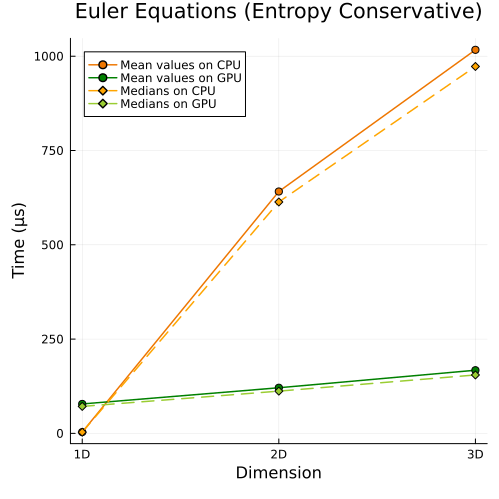
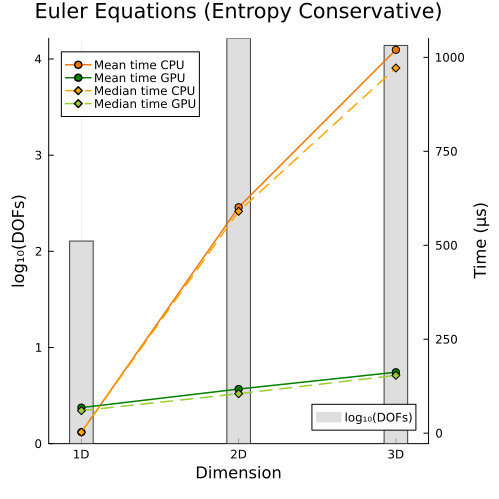
Deploying to gh-pages from  @ 067ace5c3f382915d3ca689856f6c078361e3b23 🚀

diff --git a/benchmark/index.html b/benchmark/index.html
@@ -1,1 +1,1 @@
-<!doctype html> <html lang=en > <meta charset=UTF-8 > <meta name=viewport  content="width=device-width, initial-scale=1"> <link rel=stylesheet  href="/css/franklin.css"> <link rel=stylesheet  href="https://fonts.googleapis.com/css?family=Source+Sans+Pro:400,700,400italic|Source+Code+Pro:400,700" type="text/css"> <link rel=stylesheet  href="/css/font-awesome.min.css"> <link rel=stylesheet  href="/css/celeste.min.css"> <link rel=icon  type="image/png" sizes=192x192  href="/assets/favicon.png"> <link rel="shortcut icon" href="/assets/favicon.ico"> <link rel=apple-touch-icon-precomposed  sizes=152x152  href="/assets/apple-touch-icon.png"> <title>Comparison of <code>rhs&#33;</code> Performance: CPU vs. GPU</title> <header> <nav class=nav-main > <ul> <a class=hvr-underline-reveal  href="/" style="margin-top: 15px; margin-right: 15px"> <img src="/assets/favicon.png" alt=Logo  style="height: 45px; width: 45px"> </a> <li class=hvr-underline-reveal ><a href="/">Home</a> <li class=hvr-underline-reveal ><a href="/doc/">Doc</a> <li class=hvr-underline-reveal ><a href="/tutorial/">Tutorial</a> <li class=hvr-underline-reveal ><a href="/blog/">Blog</a> </ul> </nav> </header> <div class=franklin-content ><h1 id=comparison_of_rhs_performance_cpu_vs_gpu ><a href="#comparison_of_rhs_performance_cpu_vs_gpu" class=header-anchor >Comparison of <code>rhs&#33;</code> Performance: CPU vs. GPU</a></h1> <blockquote> <p>This documentation serves as a supplementary material for JuliaCon 2025. <br /></p> </blockquote> <p>See the benchmarking file at <a href="https://github.com/trixi-gpu/TrixiCUDA.jl/blob/v0.1.0-rc.2/benchmark/benchmark.ipynb">benchmark.ipynb</a>, and all results are compared between <a href="https://github.com/trixi-gpu/TrixiCUDA.jl/tree/v0.1.0-rc.2">TrixiCUDA.jl v0.1.0-rc.2</a> and <a href="https://github.com/trixi-framework/Trixi.jl/tree/v0.11.17">Trixi.jl v0.11.17</a>.</p> <p>We provide the link to each example in Trixi.jl as it is a more mature and stable package compared to TrixiCUDA.jl. Note that performance varies with different inputs; these benchmark results are provided for reference only.</p> <h2 id=linear_advection_equation ><a href="#linear_advection_equation" class=header-anchor >Linear Advection Equation</a></h2> <p>Left: Basic linear advection equation &#40;<a href="https://github.com/trixi-framework/Trixi.jl/blob/v0.11.17/examples/tree_1d_dgsem/elixir_advection_basic.jl">1D</a>, <a href="https://github.com/trixi-framework/Trixi.jl/blob/v0.11.17/examples/tree_2d_dgsem/elixir_advection_basic.jl">2D</a>, <a href="https://github.com/trixi-framework/Trixi.jl/blob/v0.11.17/examples/tree_3d_dgsem/elixir_advection_basic.jl">3D</a>&#41; <br />Right: Linear advection equation with mortar method &#40;<a href="https://github.com/trixi-framework/Trixi.jl/blob/v0.11.17/examples/tree_2d_dgsem/elixir_advection_mortar.jl">2D</a>, <a href="https://github.com/trixi-framework/Trixi.jl/blob/v0.11.17/examples/tree_3d_dgsem/elixir_advection_mortar.jl">3D</a>&#41;</p> <table style="background: transparent; border: none;"> <tr> <td style="background: transparent; border: none;"> <img src="/assets/benchmark/bench1.png" style="width: 300px;"> <td style="background: transparent; border: none;"> <img src="/assets/benchmark/bench2.png" style="width: 300px;"> </table> <h2 id=compressible_euler_equations ><a href="#compressible_euler_equations" class=header-anchor >Compressible Euler Equations</a></h2> <p>Left: Compressible Euler equations with entropy-conservative flux &#40;<a href="https://github.com/trixi-framework/Trixi.jl/blob/v0.11.17/examples/tree_1d_dgsem/elixir_euler_ec.jl">1D</a>, <a href="https://github.com/trixi-framework/Trixi.jl/blob/v0.11.17/examples/tree_2d_dgsem/elixir_euler_ec.jl">2D</a>, <a href="https://github.com/trixi-framework/Trixi.jl/blob/v0.11.17/examples/tree_3d_dgsem/elixir_euler_ec.jl">3D</a>&#41; Right: Compressible Euler equations with shock capturing &#40;<a href="https://github.com/trixi-framework/Trixi.jl/blob/v0.11.17/examples/tree_1d_dgsem/elixir_euler_shockcapturing.jl">1D</a>, <a href="https://github.com/trixi-framework/Trixi.jl/blob/v0.11.17/examples/tree_2d_dgsem/elixir_euler_shockcapturing.jl">2D</a>, <a href="https://github.com/trixi-framework/Trixi.jl/blob/v0.11.17/examples/tree_3d_dgsem/elixir_euler_shockcapturing.jl">3D</a>&#41;</p> <table style="background: transparent; border: none;"> <tr> <td style="background: transparent; border: none;"> <img src="/assets/benchmark/bench3.png" style="width: 300px;"> <td style="background: transparent; border: none;"> <img src="/assets/benchmark/bench4.png" style="width: 300px;"> </table> <h2 id=hyperbolic_diffusion_equations ><a href="#hyperbolic_diffusion_equations" class=header-anchor >Hyperbolic Diffusion Equations</a></h2> <p>Hyperbolic diffusion equations with non-periodic boundary conditions &#40;<a href="https://github.com/trixi-framework/Trixi.jl/blob/v0.11.17/examples/tree_1d_dgsem/elixir_hypdiff_nonperiodic.jl">1D</a>, <a href="https://github.com/trixi-framework/Trixi.jl/blob/v0.11.17/examples/tree_2d_dgsem/elixir_hypdiff_nonperiodic.jl">2D</a>, <a href="https://github.com/trixi-framework/Trixi.jl/blob/v0.11.17/examples/tree_3d_dgsem/elixir_hypdiff_nonperiodic.jl">3D</a>&#41;</p> <div align=center > <img src="/assets/benchmark/bench8.png" style="width: 300px;"> </div> <h2 id=ideal_glm-mhd_equations ><a href="#ideal_glm-mhd_equations" class=header-anchor >Ideal GLM-MHD Equations</a></h2> <p>Upper: Ideal GLM-MHD equations with entropy-conservative flux &#40;<a href="https://github.com/trixi-framework/Trixi.jl/blob/v0.11.17/examples/tree_1d_dgsem/elixir_mhd_ec.jl">1D</a>, <a href="https://github.com/trixi-framework/Trixi.jl/blob/v0.11.17/examples/tree_2d_dgsem/elixir_mhd_ec.jl">2D</a>, <a href="https://github.com/trixi-framework/Trixi.jl/blob/v0.11.17/examples/tree_3d_dgsem/elixir_mhd_ec.jl">3D</a>&#41; <br />Lower left: Ideal GLM-MHD Alfven wave &#40;<a href="https://github.com/trixi-framework/Trixi.jl/blob/v0.11.17/examples/tree_1d_dgsem/elixir_mhd_alfven_wave.jl">1D</a>, <a href="https://github.com/trixi-framework/Trixi.jl/blob/v0.11.17/examples/tree_2d_dgsem/elixir_mhd_alfven_wave.jl">2D</a>, <a href="https://github.com/trixi-framework/Trixi.jl/blob/v0.11.17/examples/tree_3d_dgsem/elixir_mhd_alfven_wave.jl">3D</a>&#41; <br />Lower right: Ideal GLM-MHD Alfven wave with mortar method &#40;<a href="https://github.com/trixi-framework/Trixi.jl/blob/v0.11.17/examples/tree_2d_dgsem/elixir_mhd_alfven_wave_mortar.jl">2D</a>, <a href="https://github.com/trixi-framework/Trixi.jl/blob/v0.11.17/examples/tree_3d_dgsem/elixir_mhd_alfven_wave_mortar.jl">3D</a>&#41;</p> <p> <div align=center > <img src="/assets/benchmark/bench5.png" style="width: 300px;"> </div> <table style="background: transparent; border: none;"> <tr> <td style="background: transparent; border: none;"> <img src="/assets/benchmark/bench6.png" style="width: 300px;"> <td style="background: transparent; border: none;"> <img src="/assets/benchmark/bench7.png" style="width: 300px;"> </table> </p> <h2 id=shallow_water_equations ><a href="#shallow_water_equations" class=header-anchor >Shallow Water Equations</a></h2> <p>Left: Shallow water equations with entropy conservative flux &#40;<a href="https://github.com/trixi-framework/Trixi.jl/blob/v0.11.17/examples/tree_1d_dgsem/elixir_shallowwater_ec.jl">1D</a>, <a href="https://github.com/trixi-framework/Trixi.jl/blob/v0.11.17/examples/tree_2d_dgsem/elixir_shallowwater_ec.jl">2D</a>&#41; <br />Right: Shallow water equations with source terms &#40;<a href="https://github.com/trixi-framework/Trixi.jl/blob/v0.11.17/examples/tree_1d_dgsem/elixir_shallowwater_source_terms.jl">1D</a>, <a href="https://github.com/trixi-framework/Trixi.jl/blob/v0.11.17/examples/tree_2d_dgsem/elixir_shallowwater_source_terms.jl">2D</a>&#41;</p> <table style="background: transparent; border: none;"> <tr> <td style="background: transparent; border: none;"> <img src="/assets/benchmark/bench9.png" style="width: 300px;"> <td style="background: transparent; border: none;"> <img src="/assets/benchmark/bench10.png" style="width: 300px;"> </table> <h2 id=takeaway ><a href="#takeaway" class=header-anchor >Takeaway</a></h2> <p>For simple cases &#40;for example, if the CPU performance is less than 100 μs&#41;, it is not advantageous to run on the GPU, since the overhead of using the GPU outweighs any performance gain. However, for more complex cases &#40;such as when execution time on the CPU exceeds 1,000 μs&#41;, running on the GPU can provide significant benefits.</p> <div class=page-foot > <p> &copy; <a href="https://github.com/trixi-gpu" target=_blank >Trixi-GPU</a> developers. Powered by <a href="https://github.com/tlienart/Franklin.jl" target=_blank >Franklin.jl</a> and the <a href="https://julialang.org" target=_blank >Julia programming language</a>. </p> </div></div>
+<!doctype html> <html lang=en > <meta charset=UTF-8 > <meta name=viewport  content="width=device-width, initial-scale=1"> <link rel=stylesheet  href="/css/franklin.css"> <link rel=stylesheet  href="https://fonts.googleapis.com/css?family=Source+Sans+Pro:400,700,400italic|Source+Code+Pro:400,700" type="text/css"> <link rel=stylesheet  href="/css/font-awesome.min.css"> <link rel=stylesheet  href="/css/celeste.min.css"> <link rel=icon  type="image/png" sizes=192x192  href="/assets/favicon.png"> <link rel="shortcut icon" href="/assets/favicon.ico"> <link rel=apple-touch-icon-precomposed  sizes=152x152  href="/assets/apple-touch-icon.png"> <title>Comparison of <code>rhs&#33;</code> Performance: CPU vs. GPU</title> <header> <nav class=nav-main > <ul> <a class=hvr-underline-reveal  href="/" style="margin-top: 15px; margin-right: 15px"> <img src="/assets/favicon.png" alt=Logo  style="height: 45px; width: 45px"> </a> <li class=hvr-underline-reveal ><a href="/">Home</a> <li class=hvr-underline-reveal ><a href="/doc/">Doc</a> <li class=hvr-underline-reveal ><a href="/tutorial/">Tutorial</a> <li class=hvr-underline-reveal ><a href="/blog/">Blog</a> </ul> </nav> </header> <div class=franklin-content ><h1 id=comparison_of_rhs_performance_cpu_vs_gpu ><a href="#comparison_of_rhs_performance_cpu_vs_gpu" class=header-anchor >Comparison of <code>rhs&#33;</code> Performance: CPU vs. GPU</a></h1> <blockquote> <p>This documentation serves as a supplementary material for JuliaCon 2025. <br /></p> </blockquote> <p>See the benchmarking file at <a href="https://github.com/trixi-gpu/TrixiCUDA.jl/blob/v0.1.0-rc.2/benchmark/benchmark.ipynb">benchmark.ipynb</a>, and all results are compared between <a href="https://github.com/trixi-gpu/TrixiCUDA.jl/tree/v0.1.0-rc.2">TrixiCUDA.jl v0.1.0-rc.2</a> and <a href="https://github.com/trixi-framework/Trixi.jl/tree/v0.11.17">Trixi.jl v0.11.17</a>.</p> <p>We mainly show the mean and median times on CPU and GPU for each example, and include the degrees of freedom &#40;DOFs&#41; per field &#40;i.e., per independent solution variable&#41; in each plot, since DOFs are a dominant factor &#40;though not the only factor&#41; affecting computational time.</p> <p>We provide the link to each example in Trixi.jl as it is a more mature and stable package compared to TrixiCUDA.jl. Note that performance varies with different inputs; these benchmark results are provided for reference only.</p> <h2 id=linear_advection_equation ><a href="#linear_advection_equation" class=header-anchor >Linear Advection Equation</a></h2> <p>Left: Basic linear advection equation &#40;<a href="https://github.com/trixi-framework/Trixi.jl/blob/v0.11.17/examples/tree_1d_dgsem/elixir_advection_basic.jl">1D</a>, <a href="https://github.com/trixi-framework/Trixi.jl/blob/v0.11.17/examples/tree_2d_dgsem/elixir_advection_basic.jl">2D</a>, <a href="https://github.com/trixi-framework/Trixi.jl/blob/v0.11.17/examples/tree_3d_dgsem/elixir_advection_basic.jl">3D</a>&#41; <br />Right: Linear advection equation with mortar method &#40;<a href="https://github.com/trixi-framework/Trixi.jl/blob/v0.11.17/examples/tree_2d_dgsem/elixir_advection_mortar.jl">2D</a>, <a href="https://github.com/trixi-framework/Trixi.jl/blob/v0.11.17/examples/tree_3d_dgsem/elixir_advection_mortar.jl">3D</a>&#41;</p> <table style="background: transparent; border: none;"> <tr> <td style="background: transparent; border: none;"> <img src="/assets/benchmark/bench1.png" style="width: 300px;"> <td style="background: transparent; border: none;"> <img src="/assets/benchmark/bench2.png" style="width: 300px;"> </table> <h2 id=compressible_euler_equations ><a href="#compressible_euler_equations" class=header-anchor >Compressible Euler Equations</a></h2> <p>Left: Compressible Euler equations with entropy-conservative flux &#40;<a href="https://github.com/trixi-framework/Trixi.jl/blob/v0.11.17/examples/tree_1d_dgsem/elixir_euler_ec.jl">1D</a>, <a href="https://github.com/trixi-framework/Trixi.jl/blob/v0.11.17/examples/tree_2d_dgsem/elixir_euler_ec.jl">2D</a>, <a href="https://github.com/trixi-framework/Trixi.jl/blob/v0.11.17/examples/tree_3d_dgsem/elixir_euler_ec.jl">3D</a>&#41; Right: Compressible Euler equations with shock capturing &#40;<a href="https://github.com/trixi-framework/Trixi.jl/blob/v0.11.17/examples/tree_1d_dgsem/elixir_euler_shockcapturing.jl">1D</a>, <a href="https://github.com/trixi-framework/Trixi.jl/blob/v0.11.17/examples/tree_2d_dgsem/elixir_euler_shockcapturing.jl">2D</a>, <a href="https://github.com/trixi-framework/Trixi.jl/blob/v0.11.17/examples/tree_3d_dgsem/elixir_euler_shockcapturing.jl">3D</a>&#41;</p> <table style="background: transparent; border: none;"> <tr> <td style="background: transparent; border: none;"> <img src="/assets/benchmark/bench3.png" style="width: 300px;"> <td style="background: transparent; border: none;"> <img src="/assets/benchmark/bench4.png" style="width: 300px;"> </table> <h2 id=hyperbolic_diffusion_equations ><a href="#hyperbolic_diffusion_equations" class=header-anchor >Hyperbolic Diffusion Equations</a></h2> <p>Hyperbolic diffusion equations with non-periodic boundary conditions &#40;<a href="https://github.com/trixi-framework/Trixi.jl/blob/v0.11.17/examples/tree_1d_dgsem/elixir_hypdiff_nonperiodic.jl">1D</a>, <a href="https://github.com/trixi-framework/Trixi.jl/blob/v0.11.17/examples/tree_2d_dgsem/elixir_hypdiff_nonperiodic.jl">2D</a>, <a href="https://github.com/trixi-framework/Trixi.jl/blob/v0.11.17/examples/tree_3d_dgsem/elixir_hypdiff_nonperiodic.jl">3D</a>&#41;</p> <div align=center > <img src="/assets/benchmark/bench8.png" style="width: 300px;"> </div> <h2 id=ideal_glm-mhd_equations ><a href="#ideal_glm-mhd_equations" class=header-anchor >Ideal GLM-MHD Equations</a></h2> <p>Upper: Ideal GLM-MHD equations with entropy-conservative flux &#40;<a href="https://github.com/trixi-framework/Trixi.jl/blob/v0.11.17/examples/tree_1d_dgsem/elixir_mhd_ec.jl">1D</a>, <a href="https://github.com/trixi-framework/Trixi.jl/blob/v0.11.17/examples/tree_2d_dgsem/elixir_mhd_ec.jl">2D</a>, <a href="https://github.com/trixi-framework/Trixi.jl/blob/v0.11.17/examples/tree_3d_dgsem/elixir_mhd_ec.jl">3D</a>&#41; <br />Lower left: Ideal GLM-MHD Alfven wave &#40;<a href="https://github.com/trixi-framework/Trixi.jl/blob/v0.11.17/examples/tree_1d_dgsem/elixir_mhd_alfven_wave.jl">1D</a>, <a href="https://github.com/trixi-framework/Trixi.jl/blob/v0.11.17/examples/tree_2d_dgsem/elixir_mhd_alfven_wave.jl">2D</a>, <a href="https://github.com/trixi-framework/Trixi.jl/blob/v0.11.17/examples/tree_3d_dgsem/elixir_mhd_alfven_wave.jl">3D</a>&#41; <br />Lower right: Ideal GLM-MHD Alfven wave with mortar method &#40;<a href="https://github.com/trixi-framework/Trixi.jl/blob/v0.11.17/examples/tree_2d_dgsem/elixir_mhd_alfven_wave_mortar.jl">2D</a>, <a href="https://github.com/trixi-framework/Trixi.jl/blob/v0.11.17/examples/tree_3d_dgsem/elixir_mhd_alfven_wave_mortar.jl">3D</a>&#41;</p> <p> <div align=center > <img src="/assets/benchmark/bench5.png" style="width: 300px;"> </div> <table style="background: transparent; border: none;"> <tr> <td style="background: transparent; border: none;"> <img src="/assets/benchmark/bench6.png" style="width: 300px;"> <td style="background: transparent; border: none;"> <img src="/assets/benchmark/bench7.png" style="width: 300px;"> </table> </p> <h2 id=shallow_water_equations ><a href="#shallow_water_equations" class=header-anchor >Shallow Water Equations</a></h2> <p>Left: Shallow water equations with entropy conservative flux &#40;<a href="https://github.com/trixi-framework/Trixi.jl/blob/v0.11.17/examples/tree_1d_dgsem/elixir_shallowwater_ec.jl">1D</a>, <a href="https://github.com/trixi-framework/Trixi.jl/blob/v0.11.17/examples/tree_2d_dgsem/elixir_shallowwater_ec.jl">2D</a>&#41; <br />Right: Shallow water equations with source terms &#40;<a href="https://github.com/trixi-framework/Trixi.jl/blob/v0.11.17/examples/tree_1d_dgsem/elixir_shallowwater_source_terms.jl">1D</a>, <a href="https://github.com/trixi-framework/Trixi.jl/blob/v0.11.17/examples/tree_2d_dgsem/elixir_shallowwater_source_terms.jl">2D</a>&#41;</p> <table style="background: transparent; border: none;"> <tr> <td style="background: transparent; border: none;"> <img src="/assets/benchmark/bench9.png" style="width: 300px;"> <td style="background: transparent; border: none;"> <img src="/assets/benchmark/bench10.png" style="width: 300px;"> </table> <h2 id=takeaway ><a href="#takeaway" class=header-anchor >Takeaway</a></h2> <p>For simple cases &#40;for example, if the CPU performance is less than 100 μs&#41;, it is not advantageous to run on the GPU, since the overhead of using the GPU outweighs any performance gain. However, for more complex cases &#40;such as when execution time on the CPU exceeds 1,000 μs&#41;, running on the GPU can provide significant benefits. Also, remember that DOFs are the dominant, but not the sole—factor, affecting computation time.</p> <div class=page-foot > <p> &copy; <a href="https://github.com/trixi-gpu" target=_blank >Trixi-GPU</a> developers. Powered by <a href="https://github.com/tlienart/Franklin.jl" target=_blank >Franklin.jl</a> and the <a href="https://julialang.org" target=_blank >Julia programming language</a>. </p> </div></div>
